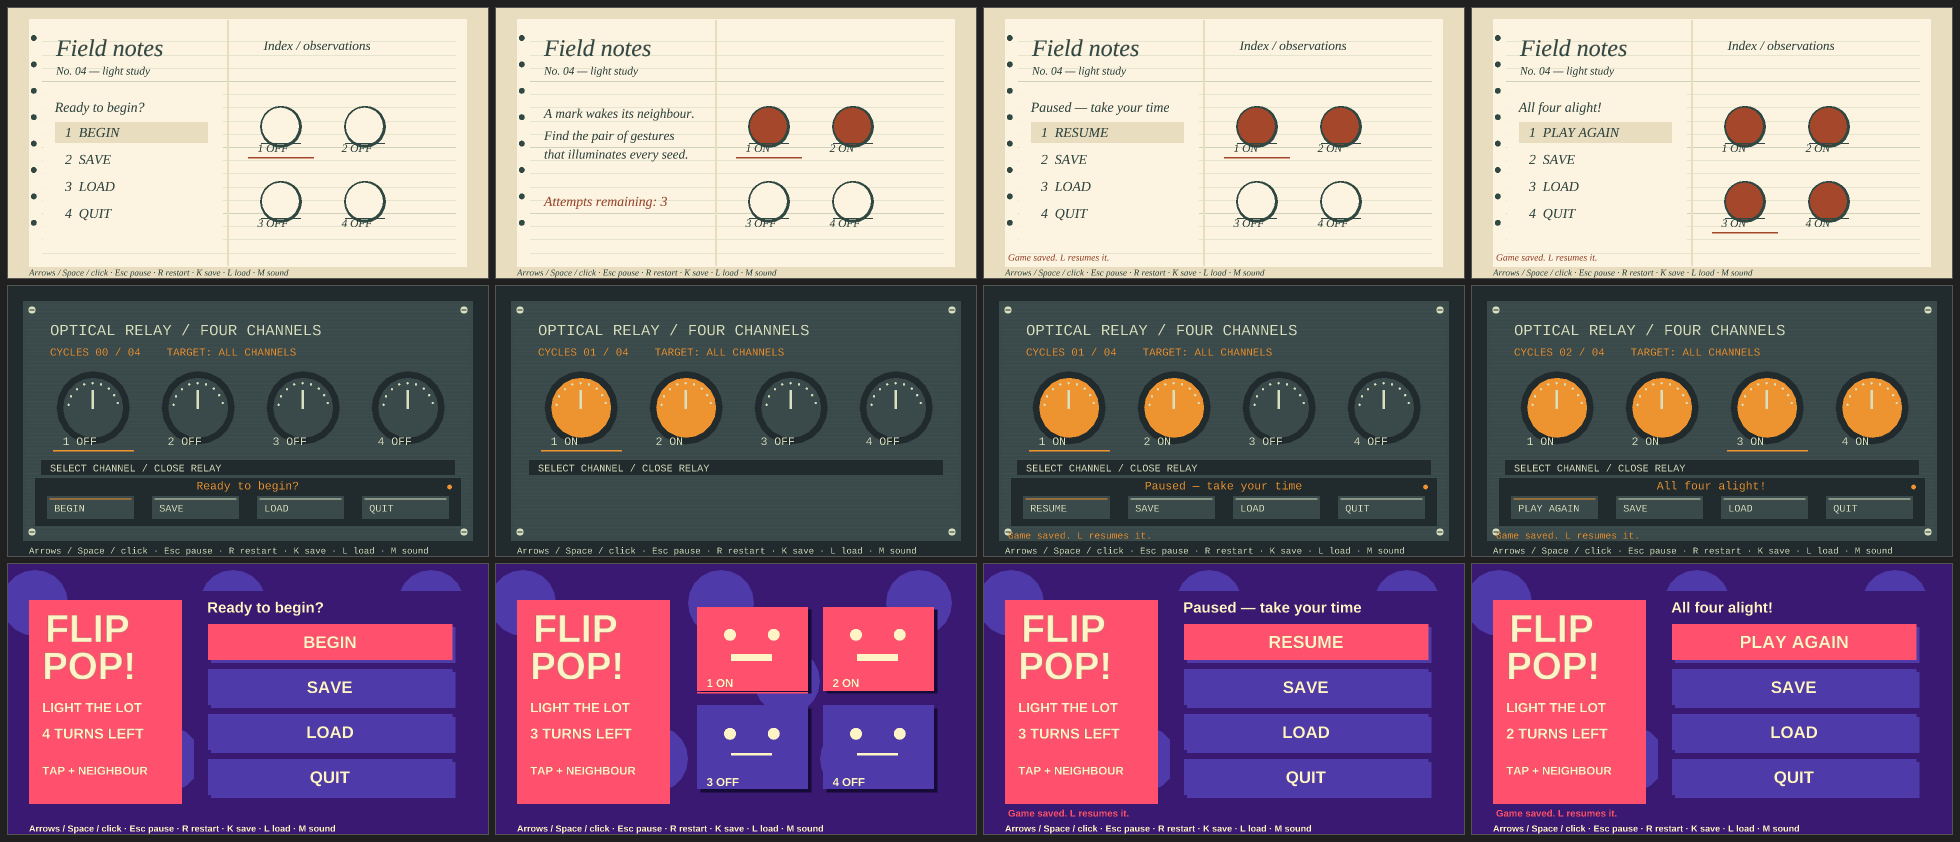
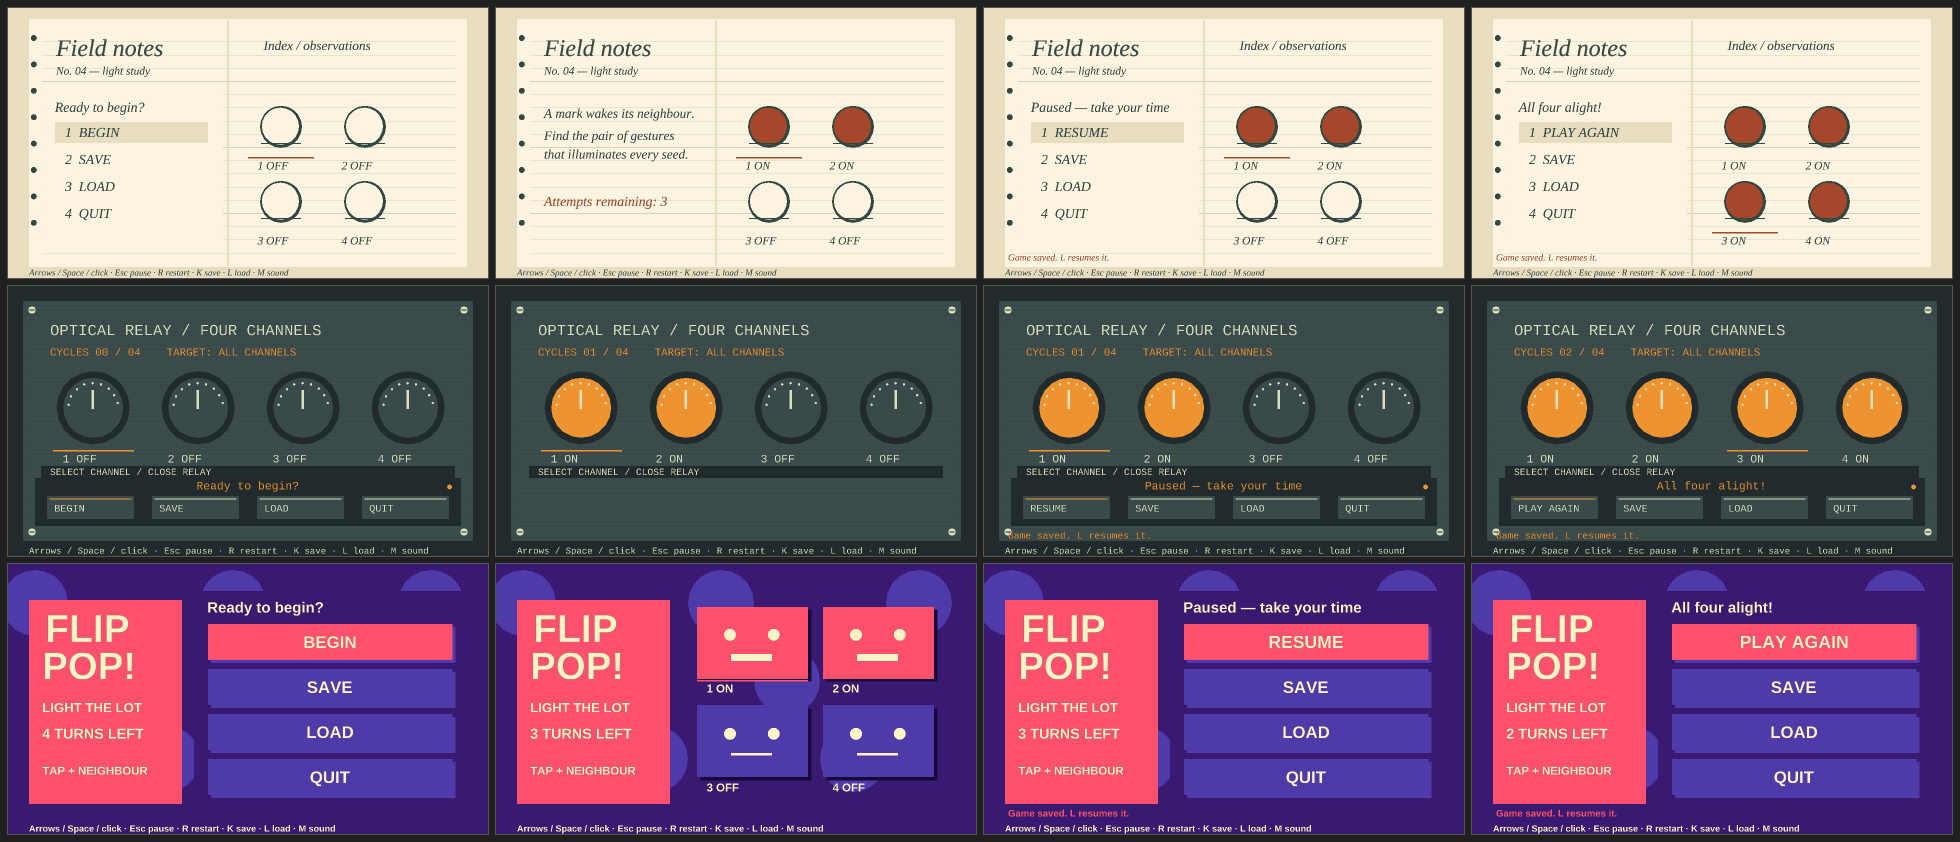
Place Identity Lab captions below their buttons

diff --git a/examples/identity-lab/src/presentation.rs b/examples/identity-lab/src/presentation.rs
@@ -34,7 +34,7 @@ fn lamp(style: u8, n: i32) -> Rect {
     match style {
         0 => Rect::new(400 + (n % 2) * 140, 155 + (n / 2) * 125, 110, 90),
         1 => Rect::new(75 + n * 175, 145, 135, 125),
-        _ => Rect::new(335 + (n % 2) * 210, 70 + (n / 2) * 165, 185, 140),
+        _ => Rect::new(335 + (n % 2) * 210, 70 + (n / 2) * 165, 185, 120),
     }
 }
 fn text(s: &mut Scene, label: impl Into<String>, x: i32, y: i32, size: f32, c: Color) {
@@ -130,8 +130,8 @@ impl<const S: u8> draw::Game for Lab<S> {
                     18.,
                     accent,
                 );
-                s.rect(2, Rect::new(55, 290, 690, 25), bg);
-                text(s, "SELECT CHANNEL / CLOSE RELAY", 70, 309, 17., ink);
+                s.rect(2, Rect::new(55, 300, 690, 20), bg);
+                text(s, "SELECT CHANNEL / CLOSE RELAY", 70, 315, 16., ink);
             }
             _ => {
                 for n in 0..7 {
@@ -222,7 +222,9 @@ impl<const S: u8> draw::Game for Lab<S> {
                 s,
                 format!("{} {}", n + 1, if on { "ON" } else { "OFF" }),
                 r.x + 16,
-                r.y + r.h - 5,
+                // Text is positioned by its baseline; leave room for glyphs below
+                // the button, its shadow and the keyboard selection marker.
+                r.y + r.h + 24,
                 19.,
                 ink,
             );
